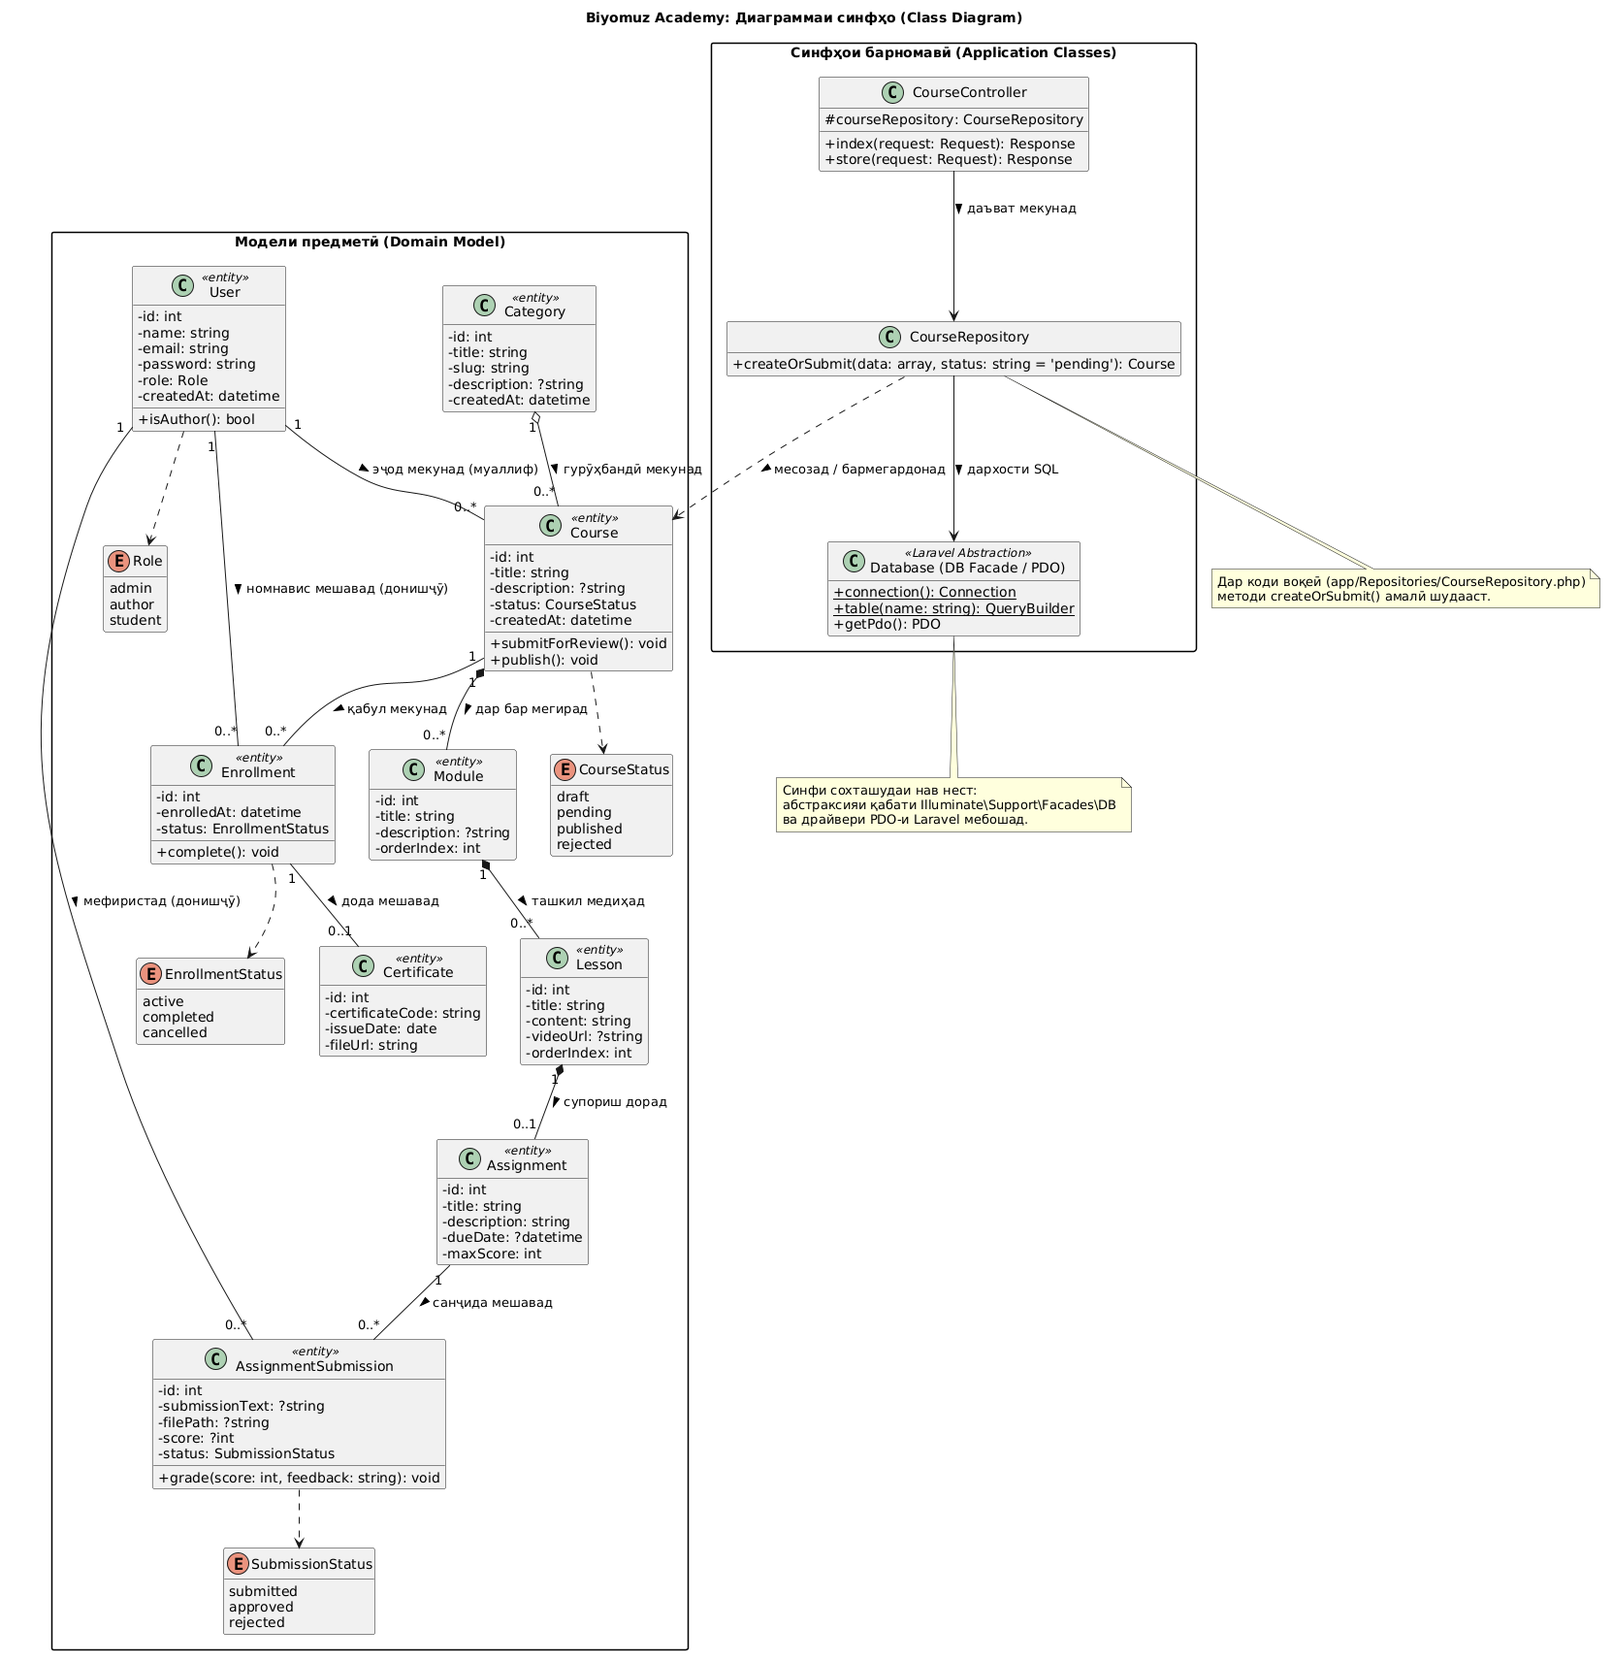
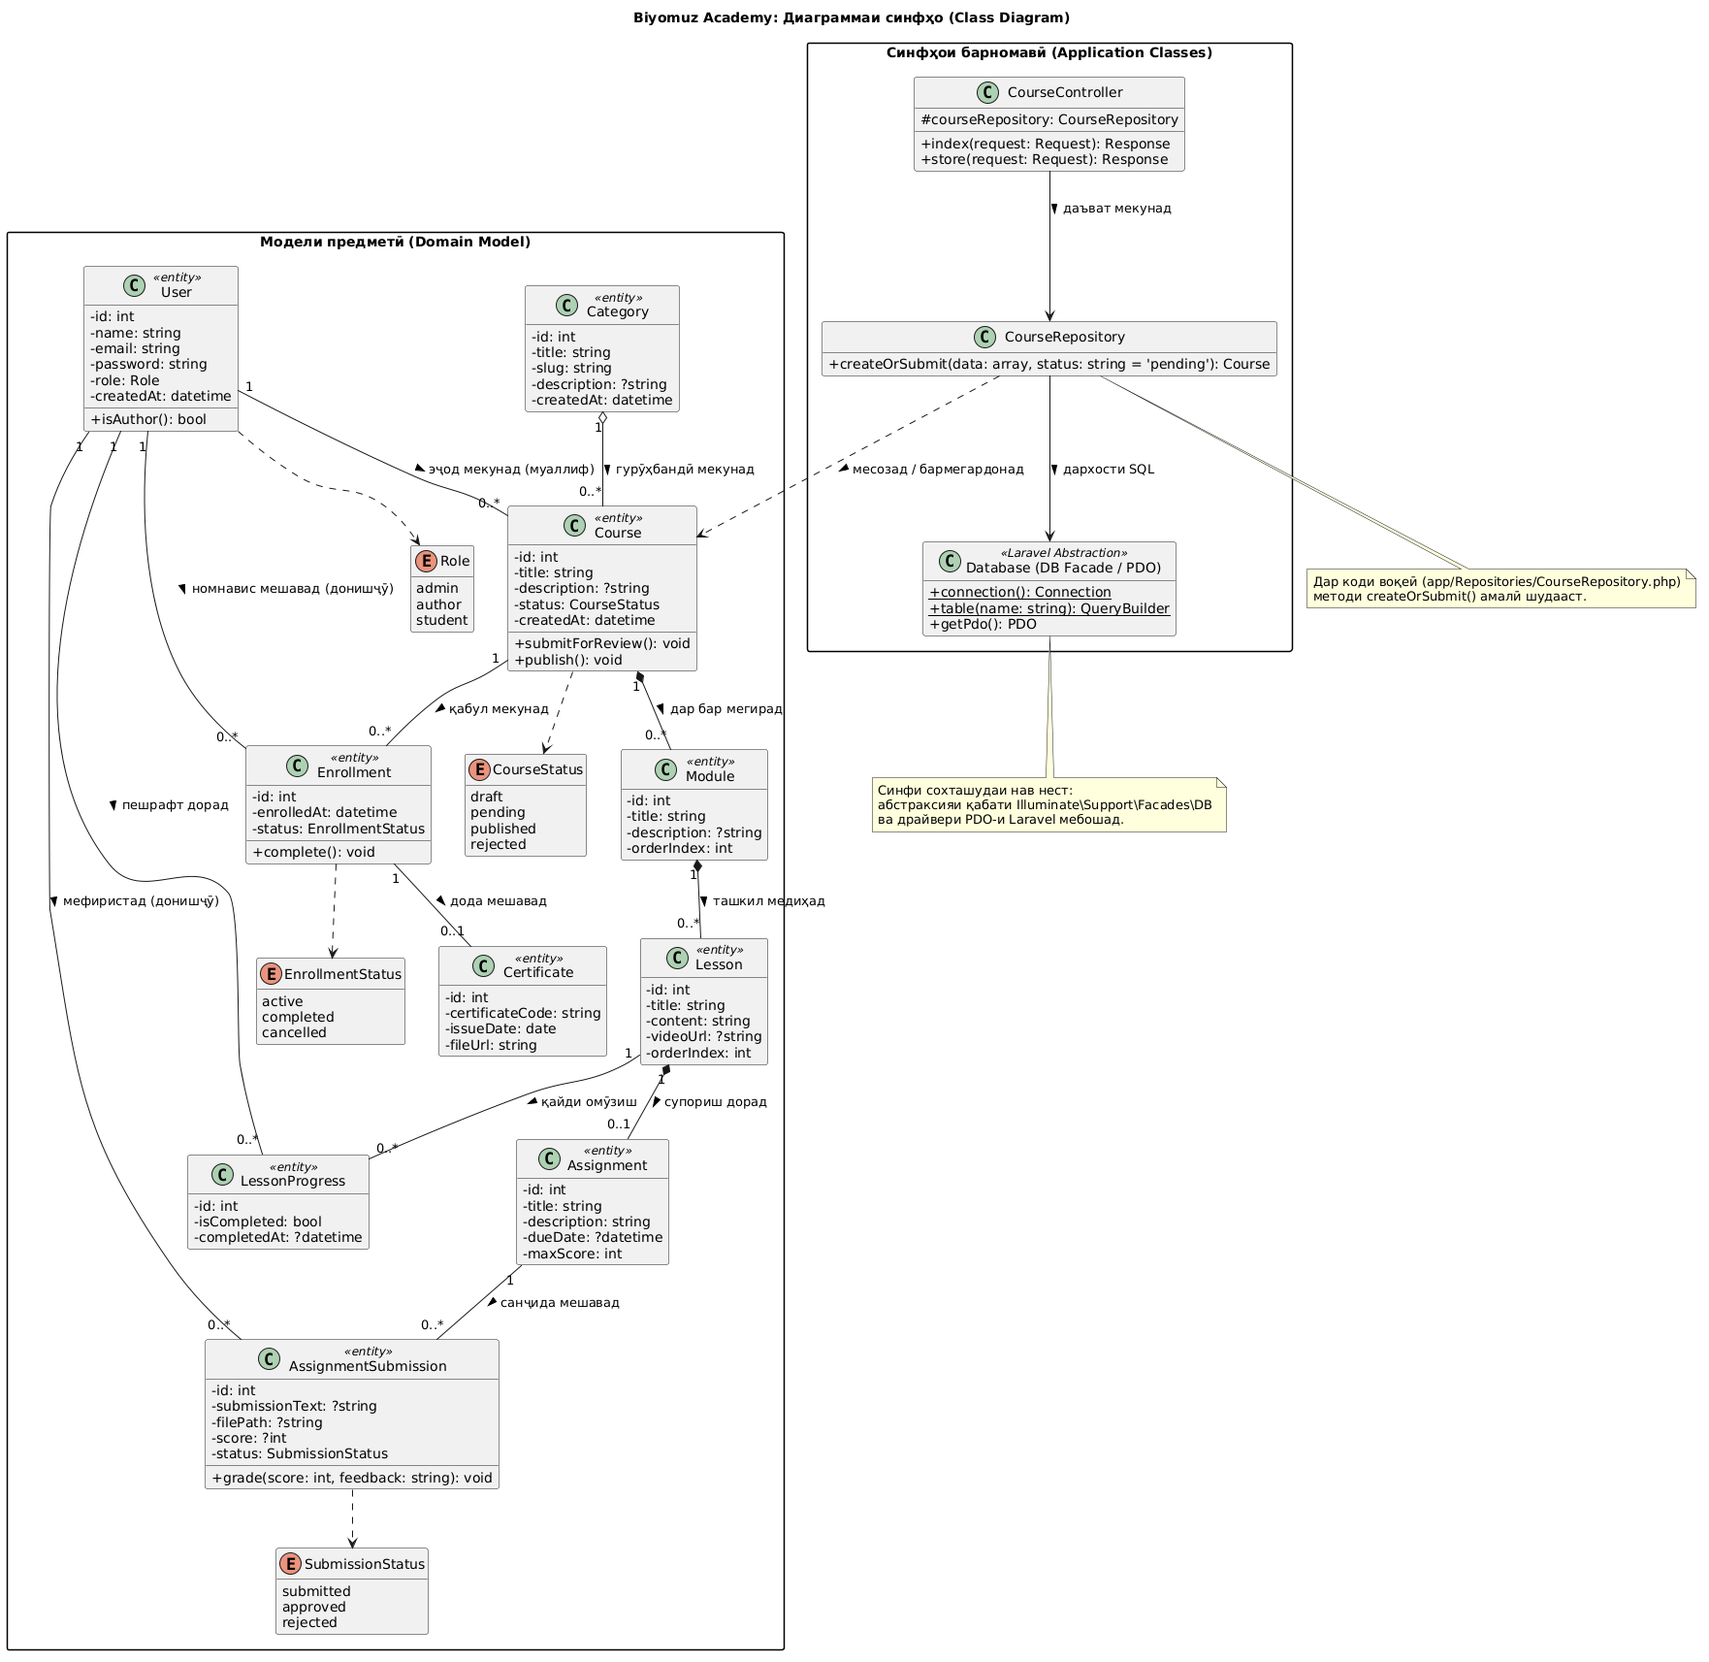
docs: finalize lab-06 logical model and ER diagram

diff --git a/docs/06-logical-model.md b/docs/06-logical-model.md
@@ -71,18 +71,18 @@
 
 ### Ҷадвали 3.1. Натиҷаи гузариш ба 1НФ (`student_courses_1nf`)
 
-| student_id | student_name | student_email | student_phone | course_title | category_title | author_name | enrolled_at | enrollment_status |
-|:---:|:---|:---|:---|:---|:---|:---|:---:|:---:|
-| **101** | Раҳимов Фарҳод | farhod@example.tj | +992927001122 | Асосҳои Laravel 13 | Веб-барномасозӣ | Устод Аҳмад | 2026-09-01 | active |
-| **101** | Раҳимов Фарҳод | farhod@example.tj | +992927001122 | Frontend бо Tailwind | Тарроҳии веб | Шаҳром Саидов | 2026-09-15 | completed |
-| **102** | Назарова Мадина | madina@example.tj | +992935006677 | Frontend бо Tailwind | Тарроҳии веб | Шаҳром Саидов | 2026-09-10 | active |
-| **103** | Абдуллоев Шариф | sharif@example.tj | +992900123456 | Асосҳои Laravel 13 | Веб-барномасозӣ | Устод Аҳмад | 2026-09-05 | completed |
-| **103** | Абдуллоев Шариф | sharif@example.tj | +992900123456 | Пойгоҳи MariaDB | Пойгоҳи додаҳо | Синои Ҳасан | 2026-09-20 | active |
-| **104** | Қосимов Зафар | zafar@example.tj | +992918445566 | Асосҳои Laravel 13 | Веб-барномасозӣ | Устод Аҳмад | 2026-09-12 | active |
+| student_id | student_name | student_email | student_phone | course_id | course_title | category_title | author_name | enrolled_at | enrollment_status |
+|:---:|:---|:---|:---|:---:|:---|:---|:---|:---:|:---:|
+| **101** | Раҳимов Фарҳод | farhod@example.tj | +992927001122 | **1** | Асосҳои Laravel 13 | Веб-барномасозӣ | Устод Аҳмад | 2026-09-01 | active |
+| **101** | Раҳимов Фарҳод | farhod@example.tj | +992927001122 | **2** | Frontend бо Tailwind | Тарроҳии веб | Шаҳром Саидов | 2026-09-15 | completed |
+| **102** | Назарова Мадина | madina@example.tj | +992935006677 | **2** | Frontend бо Tailwind | Тарроҳии веб | Шаҳром Саидов | 2026-09-10 | active |
+| **103** | Абдуллоев Шариф | sharif@example.tj | +992900123456 | **1** | Асосҳои Laravel 13 | Веб-барномасозӣ | Устод Аҳмад | 2026-09-05 | completed |
+| **103** | Абдуллоев Шариф | sharif@example.tj | +992900123456 | **3** | Пойгоҳи MariaDB | Пойгоҳи додаҳо | Синои Ҳасан | 2026-09-20 | active |
+| **104** | Қосимов Зафар | zafar@example.tj | +992918445566 | **1** | Асосҳои Laravel 13 | Веб-барномасозӣ | Устод Аҳмад | 2026-09-12 | active |
 
 #### Вазъияти 1НФ:
 * Қиматҳо атомарӣ шуданд.
-* Калиди ибтидоии эҳтимолии ҷадвал таркибӣ (Composite Primary Key) гардид: **`(student_id, course_title)`**.
+* Калиди ибтидоии таркибии ҷадвал гардид: **`(student_id, course_id)`**. `course_title` ҳамчун хусусияти тавсифии курс нигоҳ дошта мешавад.
 * **Камбудӣ:** Зиёдатии додаҳо якбора афзоиш ёфт! Номи донишҷӯ, телефон ва почтаи ӯ барои ҳар як курс такрор мешавад. Номи муаллиф ва категория барои курси «Laravel 13» се бор такрор шудааст.
 
 ---
@@ -96,7 +96,7 @@
 #### Таҳлили вобастагиҳои функсионалӣ дар ҷадвали 1НФ бо калиди таркибии `(student_id, course_id)`:
 * **`student_id → student_name, student_email, student_phone`**
   Ин атрибутҳо танҳо ба қисми якуми калид (`student_id`) вобастаанд. Барои донистани номи донишҷӯ донистани курси ӯ шарт нест. Ин **вобастагии қисмакӣ (partial dependency)** аст.
-* **`course_id → course_title, category_title, author_name`**
+* **`course_id → course_title, category_id, author_id`**
   Ин атрибутҳо танҳо ба қисми дуюми калид (`course_id`) вобастаанд. Ин низ **вобастагии қисмакӣ** мебошад.
 * **`(student_id, course_id) → enrolled_at, enrollment_status`**
   Ин атрибутҳо танҳо ҳангоми якҷоя будани ҳар ду калид маъно доранд (донишҷӯи мушаххас ба курси мушаххас дар кадом сана номнавис шуд ва дар кадом ҳолат қарор дорад). Ин **вобастагии пурраи функсионалӣ (full dependency)** аст.
@@ -292,7 +292,7 @@
 | Атрибут | Тип | Калид | NULL | Тавсиф |
 |---|---|---|:---:|---|
 | `id` | BIGINT UNSIGNED | PK | Не | Идентификатори супориш |
-| `lesson_id` | BIGINT UNSIGNED | FK → lessons.id | Не | Дарсе, ки ин супориш ба он вобаста аст |
+| `lesson_id` | BIGINT UNSIGNED | FK → lessons.id, UQ | Не | Дарсе, ки ин супориш ба он вобаста аст (муносибати 1:1) |
 | `title` | VARCHAR(255) | — | Не | Сарлавҳаи супориши амалӣ |
 | `description` | TEXT | — | Не | Шарҳи шартҳо ва талаботи иҷрои вазифа |
 | `due_date` | DATETIME | — | Ҳа | Мӯҳлати охирини супоридани кор (Deadline) |
@@ -354,7 +354,7 @@
 | **`modules`** | Қисмҳои сохтории курсҳо барои ташкили пайдарпайии дарсҳо | **PK:** `id`<br>**FK:** `course_id → courses.id` |
 | **`lessons`** | Дарсҳои мушаххаси дорои матн, видео ва супориш | **PK:** `id`<br>**FK:** `module_id → modules.id` |
 | **`enrollments`** | Қайди шомилшавии донишҷӯ ба курс (ҳалли M:N) ва ҳолати омӯзиш | **PK:** `id`<br>**UQ:** `(user_id, course_id)`<br>**FK:** `user_id → users.id`, `course_id → courses.id` |
-| **`assignments`** | Супоришҳои амалии вобаста ба дарс бо меъёри хол | **PK:** `id`<br>**FK:** `lesson_id → lessons.id` |
+| **`assignments`** | Супоришҳои амалии вобаста ба дарс бо меъёри хол | **PK:** `id`<br>**UQ:** `lesson_id`<br>**FK:** `lesson_id → lessons.id` (1:1) |
 | **`assignment_submissions`** | Вазифаҳои иҷрокардаи донишҷӯ бо файл ва баҳои муаллиф | **PK:** `id`<br>**FK:** `assignment_id → assignments.id`, `user_id → users.id` |
 | **`certificates`** | Шаҳодатномаҳои электронии тасдиқшудаи хатми курс | **PK:** `id`<br>**UQ:** `certificate_code`, `enrollment_id`<br>**FK:** `enrollment_id → enrollments.id` (1:1) |
 | **`lesson_progress`** | Қайди ҳолати дарсҳои гузаштаи донишҷӯ (кушодани дарси навбатӣ) | **PK:** `id`<br>**UQ:** `(user_id, lesson_id)`<br>**FK:** `user_id → users.id`, `lesson_id → lessons.id` |
@@ -367,11 +367,11 @@
 
 | Ҷадвалҳои алоқаманд | Навъи алоқа | Калиди хориҷӣ (FK) | Нотатсияи Crow's Foot | Шарҳ ва мантиқи соҳавӣ |
 |:---|:---:|:---|:---:|:---|
-| **categories — courses** | 1:N | `courses.category_id` | `categories ||--o{ courses` | Як категория метавонад дорои сифр ё якчанд курс бошад; ҳар як курс метавонад ба як категория тааллуқ дошта бошад (ихтиёрӣ). |
+| **categories — courses** | 1:N (ихтиёрӣ барои курс) | `courses.category_id` | `categories |o--o{ courses` | Як курс метавонад 0 ё 1 категория дошта бошад (`courses.category_id` ихтиёрӣ / NULL-допустимый); як категория метавонад дорои 0 ё якчанд курс бошад. |
 | **users — courses** | 1:N | `courses.author_id` | `users ||--o{ courses` | Як корбари дорои нақши муаллиф метавонад соҳиби сифр ё якчанд курс бошад; ҳар як курс ҳатман ба як муаллиф тааллуқ дорад. |
 | **courses — modules** | 1:N | `modules.course_id` | `courses ||--o{ modules` | Курс аз сифр ё якчанд модул иборат аст; модул бе курс вуҷуд дошта наметавонад (композитсия). |
 | **modules — lessons** | 1:N | `lessons.module_id` | `modules ||--o{ lessons` | Модул дорои сифр ё якчанд дарс аст; дарс ҳатман ба як модул тааллуқ дорад (композитсия). |
-| **lessons — assignments** | 1:1 (ихтиёрӣ) / 1:N | `assignments.lesson_id` | `lessons ||--o| assignments` | Дарс метавонад як супориши амалӣ дошта бошад ё умуман бе супориш бошад (дарси назариявӣ). |
+| **lessons — assignments** | **1:1** (ихтиёрӣ) | `assignments.lesson_id` | `lessons ||--o| assignments` | Муносибати 1:1 ихтиёрӣ (мувофиқ ба Class Diagram: `Lesson "1" *-- "0..1" Assignment`). Ҳар як дарс метавонад 0 ё маҳз 1 супориш дошта бошад. Сутуни `assignments.lesson_id` дорои маҳдудияти FK + UNIQUE мебошад, ки зиёда аз як супоришро барои як дарс манъ мекунад. |
 | **users ↔ courses** | **M:N** (тавассути `enrollments`) | `enrollments.user_id`<br>`enrollments.course_id` | `users ||--o{ enrollments`<br>`courses ||--o{ enrollments` | Робитаи бисёр ба бисёр: як донишҷӯ метавонад ба якчанд курс номнавис шавад ва ҳар курс метавонад садҳо донишҷӯ дошта бошад. |
 | **assignments — assignment_submissions** | 1:N | `assignment_submissions.assignment_id` | `assignments ||--o{ assignment_submissions` | Ба як супориш метавонад якчанд донишҷӯ ҷавоб фиристад. |
 | **users — assignment_submissions** | 1:N | `assignment_submissions.user_id` | `users ||--o{ assignment_submissions` | Донишҷӯ метавонад барои супоришҳои мухталиф корҳои худро ирсол намояд. |
@@ -410,6 +410,7 @@
 5. **`certificates.certificate_code` (UQ):** Рамзи беназири давлатӣ/оммавӣ барои санҷиши саҳеҳии шаҳодатнома (QR/код).
 6. **`certificates.enrollment_id` (UQ):** Таъмини маҳдудияти 1:1 байни номнависӣ ва шаҳодатнома.
 7. **`lesson_progress(user_id, lesson_id)` (UQ):** Индекси таркибӣ барои пешгирӣ аз сабти такрории пешрафти як дарс аз ҷониби як донишҷӯ.
+8. **`assignments.lesson_id` (UQ):** Таъмини маҳдудияти қатъии 1:1 ихтиёрӣ байни дарс ва супориш (як дарс наметавонад зиёда аз як супориш дошта бошад).
 
 ### 7.2. Маҳдудиятҳои санҷишӣ (`CHECK`)
 Барои кафолати саҳеҳии мантиқии қиматҳо маҳдудиятҳои зерини сатҳи СУБД истифода мешаванд:
@@ -470,7 +471,7 @@
 | `Assignment` | `assignments` | **Пурра мутобиқ:** `lesson_id` (FK), `title`, `due_date`, `max_score`. |
 | `AssignmentSubmission`| `assignment_submissions` | **Пурра мутобиқ:** `assignment_id` (FK), `user_id` (FK), `submission_text`, `file_path`, `score`, `feedback`, `status`. |
 | `Certificate` | `certificates` | **Пурра мутобиқ:** Муносибати 1:1 бо `enrollments` тавассути `enrollment_id` (UQ), `certificate_code` (UQ). |
-| *Синфи иловагӣ аз ТЗ* | `lesson_progress` | **Иловаи муҳим:** Барои таъмини талаботи FR-05 (омӯзиши пайдарпайи дарсҳо) ҷадвали пешрафт илова карда шуд. |
+| `LessonProgress` | `lesson_progress` | **Пурра мутобиқ:** Синфи `LessonProgress` дар Class Diagram ва ҷадвали `lesson_progress` дар модели мантиқӣ барои татбиқи талаботи FR-05 (омӯзиши пайдарпайи дарсҳо) пурра ҳамоҳанг ва инъикос гардиданд. |
 
 Ҳамин тариқ, байни модели консептуалии синфҳо ва модели мантиқии пойгоҳи додаҳо ҳеҷ гуна зиддият вуҷуд надорад.
 
